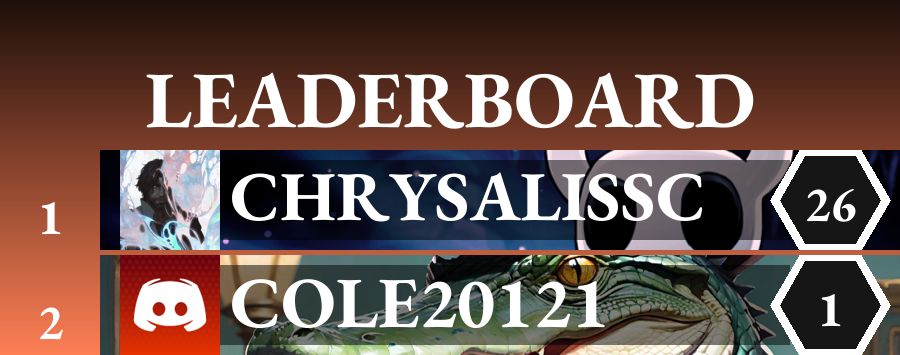
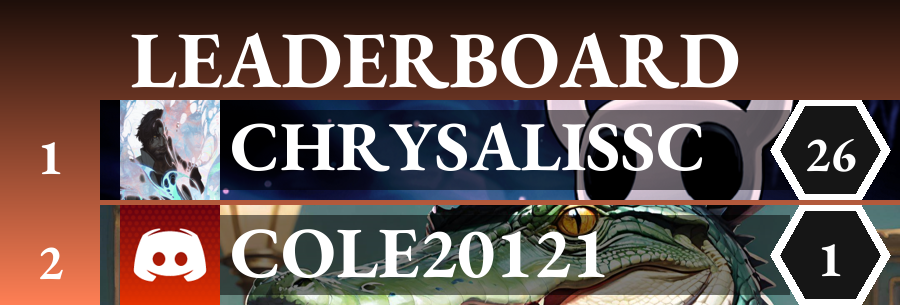
updated t0 send image

diff --git a/cogs/leaderboards.py b/cogs/leaderboards.py
@@ -88,7 +88,7 @@ def create_leaderboard_image(user_data_list, output_path="leaderboard.png"):
         """Create a leaderboard image with a stacked layout and rankings."""
         card_width, card_height = 800, 100
         margin = 5
-        title_height = 150
+        title_height = 100
         leaderboard_width = card_width + 100  # Extra space for rankings
         leaderboard_height = title_height + (card_height + margin) * len(user_data_list) - margin
 
@@ -108,7 +108,7 @@ def create_leaderboard_image(user_data_list, output_path="leaderboard.png"):
         text_width = text_bbox[2] - text_bbox[0]
         text_height = text_bbox[3] - text_bbox[1]
         draw.text(
-            ((leaderboard_width - text_width) // 2, (title_height - text_height) // 2),
+            ((leaderboard_width - text_width-30) // 2, (title_height - text_height - 30) // 2),
             title_text,
             font=title_font,
             fill=(255, 255, 255)
@@ -135,7 +135,7 @@ def create_leaderboard_image(user_data_list, output_path="leaderboard.png"):
             rank_width = rank_bbox[2] - rank_bbox[0]
             rank_height = rank_bbox[3] - rank_bbox[1]
             rank_x = (100 - rank_width) // 2
-            rank_y = y_offset + (card_height - rank_height) // 2
+            rank_y = y_offset + (card_height - rank_height -20 ) // 2
             draw.text((rank_x, rank_y), rank_text, font=rank_font, fill=(255, 255, 255))
 
         background.save(output_path)
